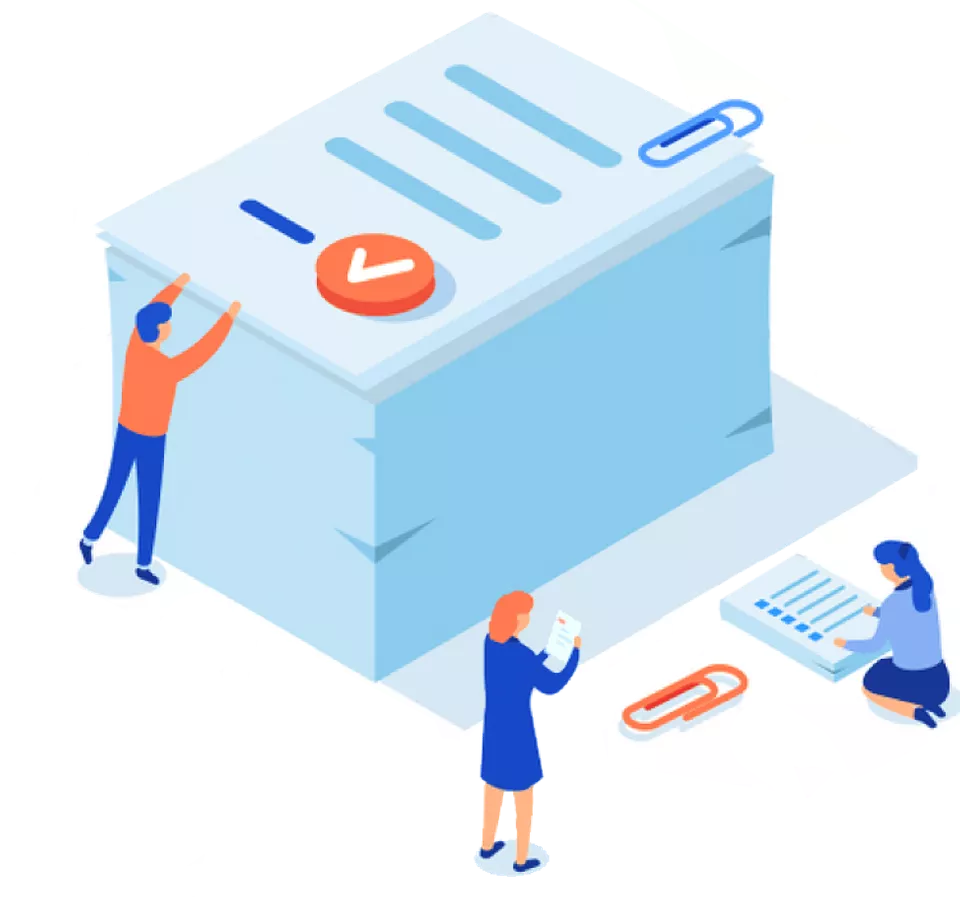
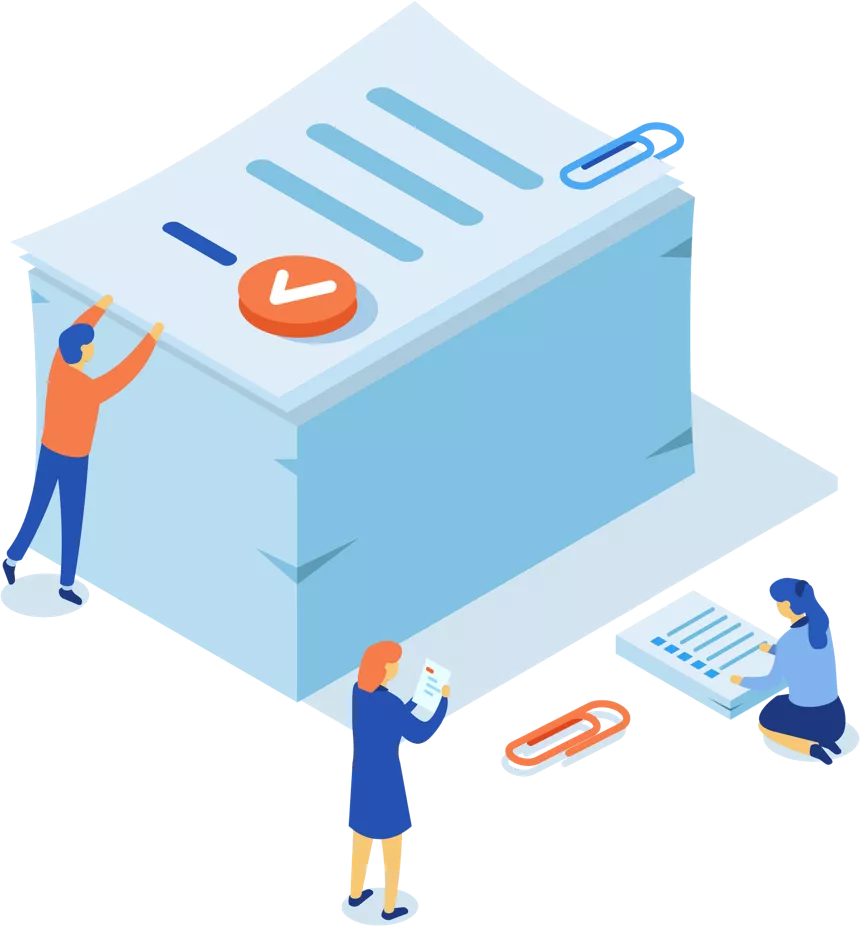
Improves the manual section

diff --git a/sections/manual.jsx b/sections/manual.jsx
@@ -6,20 +6,24 @@ import Paragraph from "../components/paragraph";
 import Button from "../components/button";
 
 export default () => (
-    <article>
+    <article className="limited-width">
         <PictureText picture={(
-                    <PictureVectorpng image="g-manual" widthDesktop="80%" marginDesktop="0"/>
+                    <PictureVectorpng image="g-manual" widthDesktop="70%" marginDesktop="0"/>
                 )}>
             <Headline HtmlTag="h3" size="20">User Manual</Headline>
             <Paragraph size="20" distance>
-            This user manual explains all current features of the MageSuite. This includes the functionalities of the MageSuite CMS "Content Constructor" and its components as well as numerous marketing and UX extensions for Magento 2. Download the user manual for free and learn how you can now use Magento 2 for content commerce.
+            The user manual explains all current features of the MageSuite. 
+            It includes the functionalities of the MageSuite CMS "Content 
+            Constructor" and its components as well as numerous marketing 
+            and UX extensions for Magento 2.<br/>Download the user manual for 
+            free and learn how you can now use Magento 2 for content commerce.
             </Paragraph>
             <Button text="Download" href="http://bit.ly/2RY1pu0" HtmlTag="a"/>
         </PictureText>
 
         <style jsx>{`
             article {
-                padding: ${rem(80)} ${rem(100)};
+                padding: 0 ${rem(100)} ${rem(80)};
             }
 
         `}</style>
